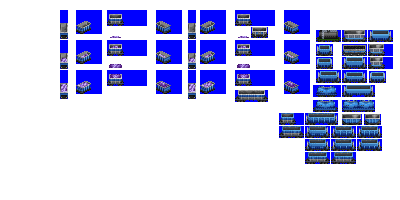
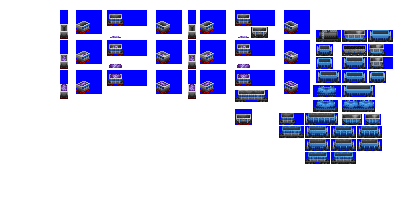
Change: sprites for gen 5A hopper car

diff --git a/src/vehicles/hopper_cars.py b/src/vehicles/hopper_cars.py
@@ -61,7 +61,9 @@ def main():
     consist = HopperCarConsist(roster='pony',
                                base_numeric_id=1080,
                                gen=5,
-                               subtype='A')
+                               subtype='A',
+                               chassis='2_axle_sparse_16px',
+                               sprites_complete=True)
 
     consist.add_unit(type=FreightCar,
                      vehicle_length=4)
